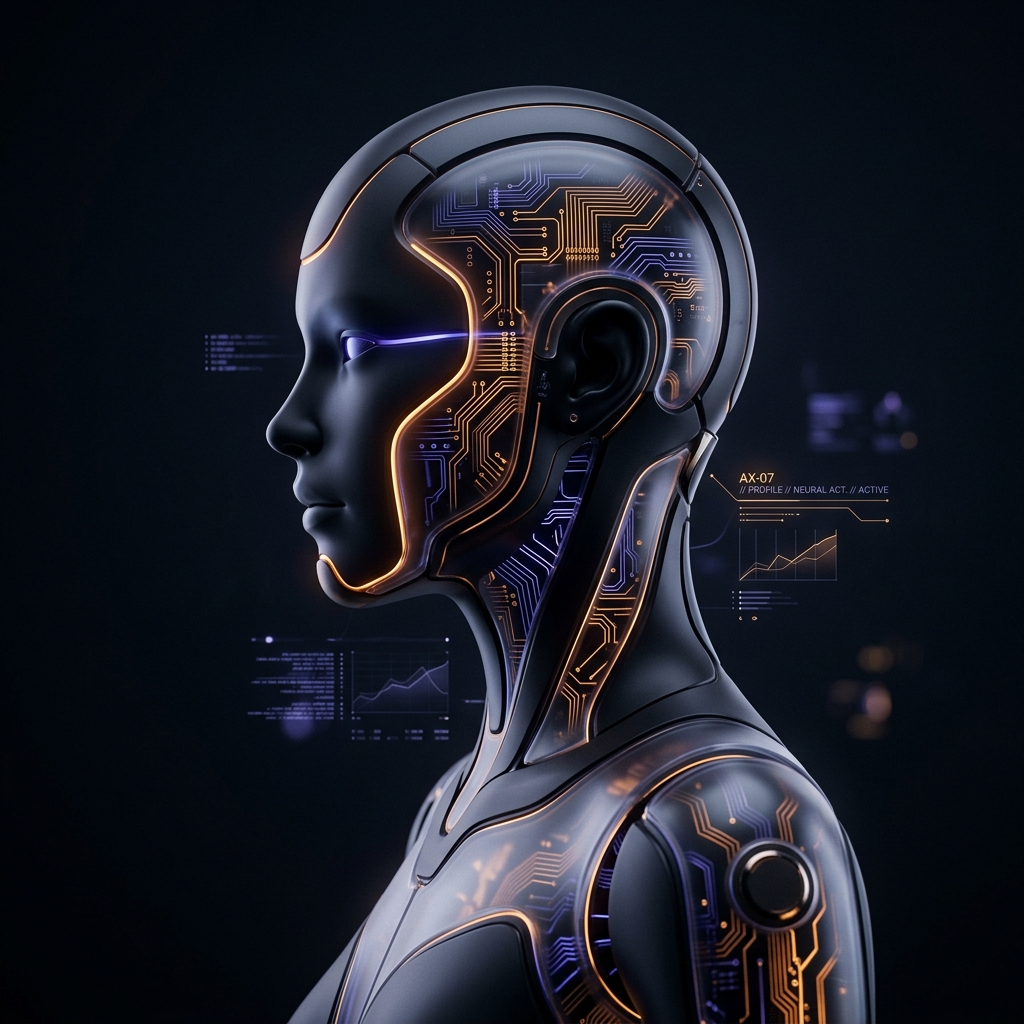
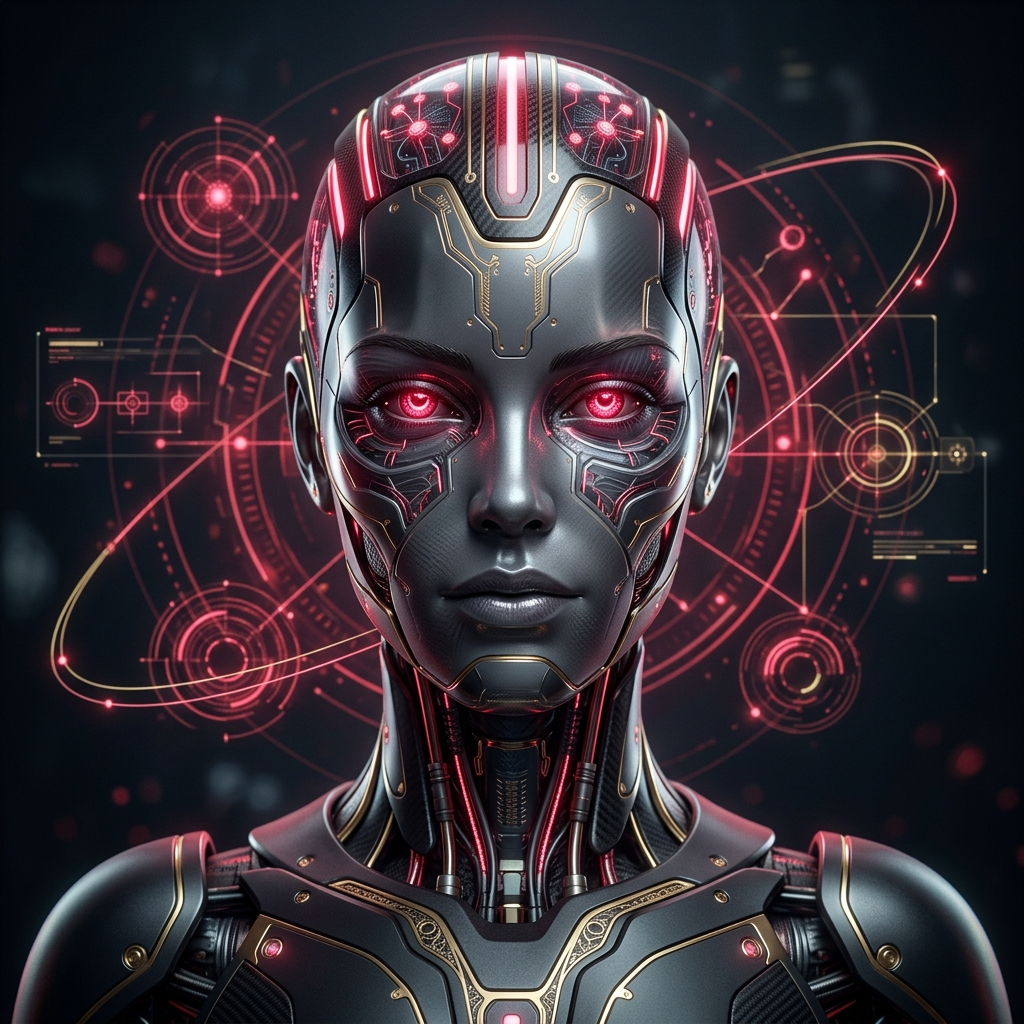
Workshop 21 maj: alla revisioner — autokomplettering, METR-labels, pm-hints, fullscreen prompt, dirigent cleanup, droidbild, cases rename, VEP-ordning

diff --git a/modules/component-forge.js b/modules/component-forge.js
@@ -635,8 +635,8 @@
         /* ===== PROMPT CARD ===== */
         .slide-prompt-card {
             display: flex; flex-direction: column; align-items: center; justify-content: center;
-            padding: clamp(1rem, 3cqw, 3rem); max-width: 1000px; margin: 0 auto; width: 100%;
-            text-align: center;
+            padding: clamp(1rem, 3cqw, 2rem) clamp(1rem, 4cqw, 3rem); max-width: 95%; margin: 0 auto; width: 100%;
+            text-align: center; height: 100%; box-sizing: border-box;
         }
         .slide-prompt-card .pc-eyebrow {
             font-size: clamp(0.75rem, 1.2cqw, 1rem); font-weight: 700; letter-spacing: 0.15em;
@@ -3911,10 +3911,11 @@
                     const labelDelay = dotDelay + 0.2;
                     const lx = xScale(p);
                     const ly = yScale(p.y);
-                    const above = (i % 2 === 0);
-                    const labelX = lx + 8;
-                    const labelY = above ? ly - 12 : ly + 18;
-                    dotsHTML += `<text class="lc-point-label${isPaused}" x="${labelX}" y="${labelY}" text-anchor="start" style="animation-delay:${labelDelay}s">${p.label}</text>`;
+                    let labelX, labelY, anchor;
+                    if (i % 3 === 0) { anchor = 'end'; labelX = lx - 10; labelY = ly - 12; }
+                    else if (i % 3 === 1) { anchor = 'middle'; labelX = lx; labelY = ly + 22; }
+                    else { anchor = 'start'; labelX = lx + 10; labelY = ly - 12; }
+                    dotsHTML += `<text class="lc-point-label${isPaused}" x="${labelX}" y="${labelY}" text-anchor="${anchor}" style="animation-delay:${labelDelay}s">${p.label}</text>`;
                 }
             });
         });
@@ -4976,7 +4977,7 @@
                                     Processägare & strategisk ledare
                                 </div>
                             </div>
-                            <span class="pc-node-tag">Dirigenten</span>
+
                         </div>
                         
                         <!-- Connector 1 -> 2: Bi-directional flow -->
@@ -5001,7 +5002,7 @@
                                     Digital sekreterare & processledare
                                 </div>
                             </div>
-                            <span class="pc-node-tag">Koordinatorn</span>
+
                         </div>
                         
                         <!-- Connector 2 -> 3 (Branching with colored flows and feedback returns) -->
@@ -9169,12 +9170,12 @@ Steg 3: Baserat på både vad jag sade OCH hur jag skrev, ge mig en färdig, pun
                     min-height: 0;
                 }
                 .am-left {
-                    flex: 0 0 32cqw;
+                    flex: 0 0 28cqw;
                     display: flex;
                     justify-content: center;
                     align-items: center;
                     position: relative;
-                    height: 60cqh;
+                    height: 55cqh;
                 }
                 
                 /* ===== DUAL INTERACTIVE PORTAL ===== */
@@ -9341,10 +9342,16 @@ Steg 3: Baserat på både vad jag sade OCH hur jag skrev, ge mig en färdig, pun
                 </div>
                 <div class="am-main-flow">
                     <div class="am-left">
+                        ${s.image ? `
+                        <div class="am-portal-wrapper mode-organic" style="border-radius: 20px; overflow: hidden; border-color: rgba(249, 115, 22, 0.3); box-shadow: 0 0 50px rgba(249, 115, 22, 0.15), inset 0 0 40px rgba(249, 115, 22, 0.05);">
+                            <img src="${s.image}" alt="AI Android" style="width: 100%; height: 100%; object-fit: cover; border-radius: 18px; filter: brightness(0.9) contrast(1.1);">
+                        </div>
+                        ` : `
                         <div class="am-portal-wrapper mode-organic">
                             <canvas class="am-canvas"></canvas>
                             <div class="am-portal-indicator">Neural Core</div>
                         </div>
+                        `}
                     </div>
                     <div class="am-right">
                         <div class="am-grid">
@@ -9623,7 +9630,7 @@ Steg 3: Baserat på både vad jag sade OCH hur jag skrev, ge mig en färdig, pun
                     align-items: center;
                     padding: 4cqh 5cqw;
                     box-sizing: border-box;
-                    gap: 3cqh;
+                    gap: 2cqh;
                 }
                 .wf-header-group {
                     text-align: center;
@@ -9661,10 +9668,10 @@ Steg 3: Baserat på både vad jag sade OCH hur jag skrev, ge mig en färdig, pun
                     backdrop-filter: blur(12px);
                     border: 1px solid rgba(255, 255, 255, 0.06);
                     border-radius: 20px;
-                    padding: 4cqh 3cqw;
+                    padding: 2.5cqh 2.5cqw;
                     display: flex;
                     flex-direction: column;
-                    gap: 2.5cqh;
+                    gap: 1.5cqh;
                     transition: all 0.4s cubic-bezier(0.16, 1, 0.3, 1);
                     position: relative;
                 }
@@ -10150,9 +10157,9 @@ Steg 3: Baserat på både vad jag sade OCH hur jag skrev, ge mig en färdig, pun
                         </h3>
                     </div>
                     
-                    <div class="pm-hint" id="${id}-hint" style="font-size: clamp(0.85rem, 1.4cqw, 1.1rem); color: var(--accent, #f97316); opacity: 0.8; font-weight: 600; letter-spacing: 0.08em; text-transform: uppercase; animation: pulseHint 2s infinite ease-in-out; border-top: 1px solid rgba(255, 255, 255, 0.1); padding-top: 1.5rem; width: 100%; font-family: 'Outfit', 'Inter', sans-serif;">
+                    ${s.hideHints ? '' : `<div class="pm-hint" id="${id}-hint" style="font-size: clamp(0.85rem, 1.4cqw, 1.1rem); color: var(--accent, #f97316); opacity: 0.8; font-weight: 600; letter-spacing: 0.08em; text-transform: uppercase; animation: pulseHint 2s infinite ease-in-out; border-top: 1px solid rgba(255, 255, 255, 0.1); padding-top: 1.5rem; width: 100%; font-family: 'Outfit', 'Inter', sans-serif;">
                         Klicka för att se risken
-                    </div>
+                    </div>`}
                 </div>
             </div>
         `;

diff --git a/index.html b/index.html
@@ -527,7 +527,7 @@
                     parseSetlist(saved);
                     syncSetlistToUrl(saved);
                 } else {
-                    const defaultSetlist = "title-astorp,presenter,dialog-first,myth-magic-prompt,llm-mekanik,llm-latent-rymd-vektor,llm-latent-rymd,syntes-kognition,syntes-motor-insikt,ai-task-horizon,ai-task-horizon-2,news-flash-gemini,th11-ceiling,gemini-efficiency,th11-acceleration,tank-om-progression,ai-laboratorier-karta,stat-kompression,jagged-frontier-grade-inflation,gdpr-ai-mindmap,ai-skyddsnat,policy-human-in-the-loop,chef-ai-perspektiv,ai-brain-fry,ai-delegation,personal-voice-question,personal-voice-methods,tids-citat,du-ar-dirigenten,vep-i-praktiken,astorp-digitalisering-vep,vardags-vep,valj-ratt-modell,anthropomorphism,workshop-focus,workshop-meny-mojligheter,workshop-case-data,workshop-case-vep-presentation,agent-idag,agent-cases,admin-till-klassrum,cognitive-shift-contrast,dual-analysis-method,olampligt-ai,ai-act-2026,skolverket-process,skolinspektionen-tillsyn,imy-shadow-ai,emil-workspace,vep-final-case";
+                    const defaultSetlist = "title-astorp,presenter,dialog-first,myth-magic-prompt,llm-mekanik,llm-latent-rymd-vektor,llm-latent-rymd,syntes-kognition,syntes-motor-insikt,ai-task-horizon,ai-task-horizon-2,news-flash-gemini,th11-ceiling,gemini-efficiency,th11-acceleration,tank-om-progression,ai-laboratorier-karta,stat-kompression,jagged-frontier-grade-inflation,gdpr-ai-mindmap,ai-skyddsnat,policy-human-in-the-loop,chef-ai-perspektiv,ai-brain-fry,ai-delegation,personal-voice-question,personal-voice-methods,tids-citat,du-ar-dirigenten,vep-i-praktiken,astorp-digitalisering-vep,vardags-vep,valj-ratt-modell,anthropomorphism,workshop-focus,workshop-meny-mojligheter,workshop-case-data,workshop-case-vep-presentation,agent-idag,agent-cases,admin-till-klassrum,cognitive-shift-contrast,dual-analysis-method,olampligt-ai,ai-act-2026,skolverket-process,skolinspektionen-tillsyn,imy-shadow-ai,vep-final-case,cases";
                     document.getElementById('setlistInput').value = defaultSetlist;
                     parseSetlist(defaultSetlist);
                     syncSetlistToUrl(defaultSetlist);

diff --git a/scratch/validate_presentation.py b/scratch/validate_presentation.py
@@ -1,0 +1,96 @@
+import json
+import os
+import re
+
+def validate():
+    base_dir = "/Users/hakankarlsson/Library/CloudStorage/[email redacted]/Min enhet/🌎GAIA/Deployments/ai-for-ledare"
+    slides_path = os.path.join(base_dir, "slides.json")
+    
+    if not os.path.exists(slides_path):
+        print(f"ERROR: slides.json not found at {slides_path}")
+        return
+
+    try:
+        with open(slides_path, 'r', encoding='utf-8') as f:
+            data = json.load(f)
+    except json.JSONDecodeError as e:
+        print(f"ERROR: slides.json is not valid JSON: {e}")
+        return
+    except Exception as e:
+        print(f"ERROR reading slides.json: {e}")
+        return
+
+    if not isinstance(data, dict):
+        print("ERROR: slides.json top-level is not an object/dictionary")
+        return
+
+    sections = data.get("sections", [])
+    slides = data.get("slides", [])
+
+    print(f"Loaded config: project={data.get('meta', {}).get('project')}")
+    print(f"Sections defined: {[s.get('id') for s in sections]}")
+    print(f"Successfully loaded {len(slides)} slides from slides.json.")
+
+    errors = 0
+    warnings = 0
+
+    section_ids = {s.get("id") for s in sections}
+
+    # Let's inspect slide types and referenced files
+    for idx, slide in enumerate(slides):
+        if not isinstance(slide, dict):
+            print(f"ERROR: Slide at index {idx} is not an object: {slide}")
+            errors += 1
+            continue
+
+        slide_id = slide.get("id", f"index_{idx}")
+        slide_type = slide.get("type", "unknown")
+        slide_section = slide.get("section")
+
+        if slide_section and slide_section not in section_ids:
+            print(f"WARNING: Slide [{slide_id}] uses undefined section: {slide_section}")
+            warnings += 1
+        
+        # Verify assets/ paths
+        # Search all string values recursively for any local file paths starting with "assets/"
+        def check_assets(obj, path_prefix=""):
+            nonlocal errors, warnings
+            if isinstance(obj, str):
+                # Look for "assets/..."
+                matches = re.findall(r'assets/[\w\.\-\/]+', obj)
+                for match in matches:
+                    # check if the file exists
+                    full_asset_path = os.path.join(base_dir, match)
+                    if not os.path.exists(full_asset_path):
+                        print(f"ERROR: Slide [{slide_id}] references missing asset: {match} (resolved to {full_asset_path})")
+                        errors += 1
+                    else:
+                        pass
+            elif isinstance(obj, dict):
+                for k, v in obj.items():
+                    check_assets(v, f"{path_prefix}.{k}")
+            elif isinstance(obj, list):
+                for i, v in enumerate(obj):
+                    check_assets(v, f"{path_prefix}[{i}]")
+
+        check_assets(slide)
+
+    # Check that key files exist
+    required_files = [
+        "index.html",
+        "audience.html",
+        "modules/component-forge.js"
+    ]
+    for req_file in required_files:
+        full_path = os.path.join(base_dir, req_file)
+        if not os.path.exists(full_path):
+            print(f"ERROR: Required file {req_file} is missing from {full_path}")
+            errors += 1
+        else:
+            print(f"OK: {req_file} exists.")
+
+    print(f"\nValidation complete. Errors: {errors}, Warnings: {warnings}")
+
+if __name__ == "__main__":
+    validate()
+